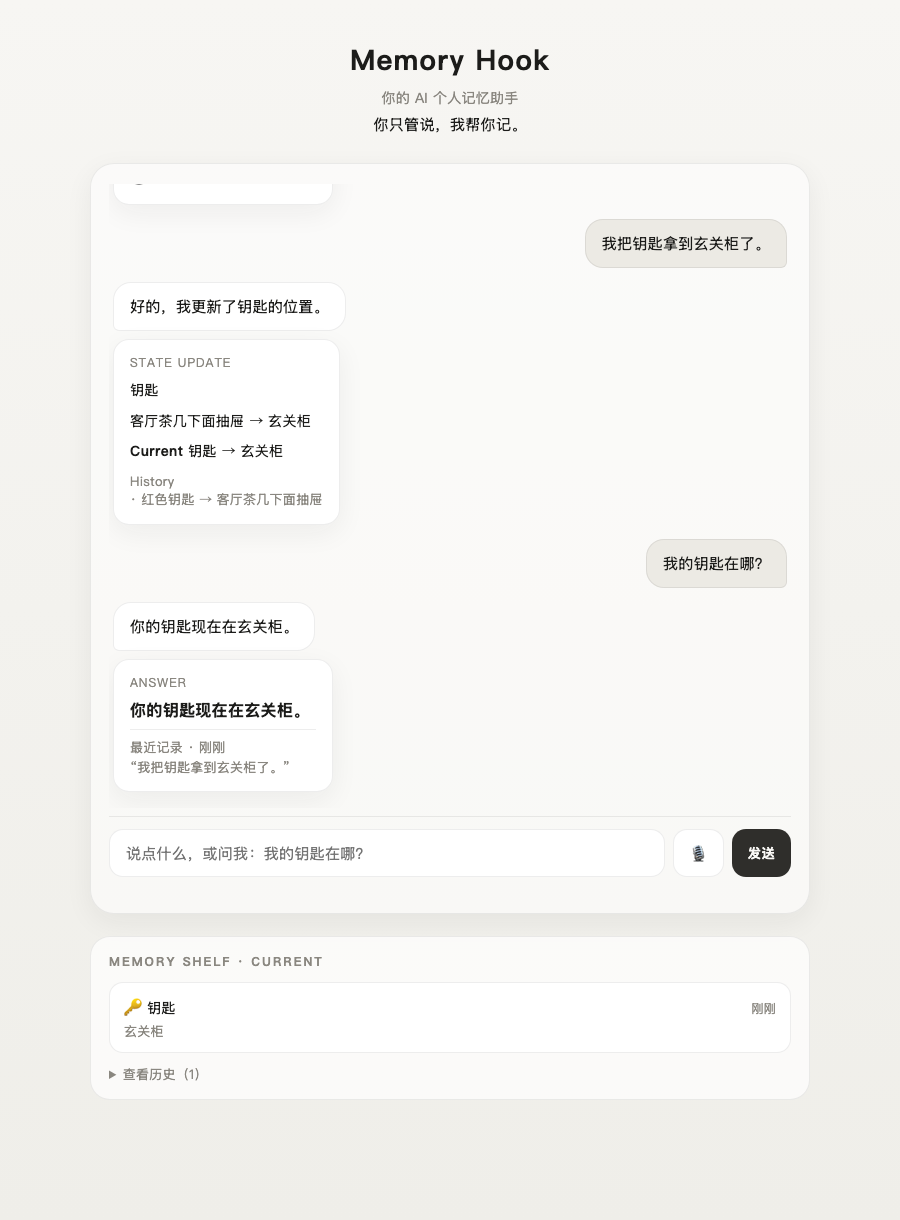
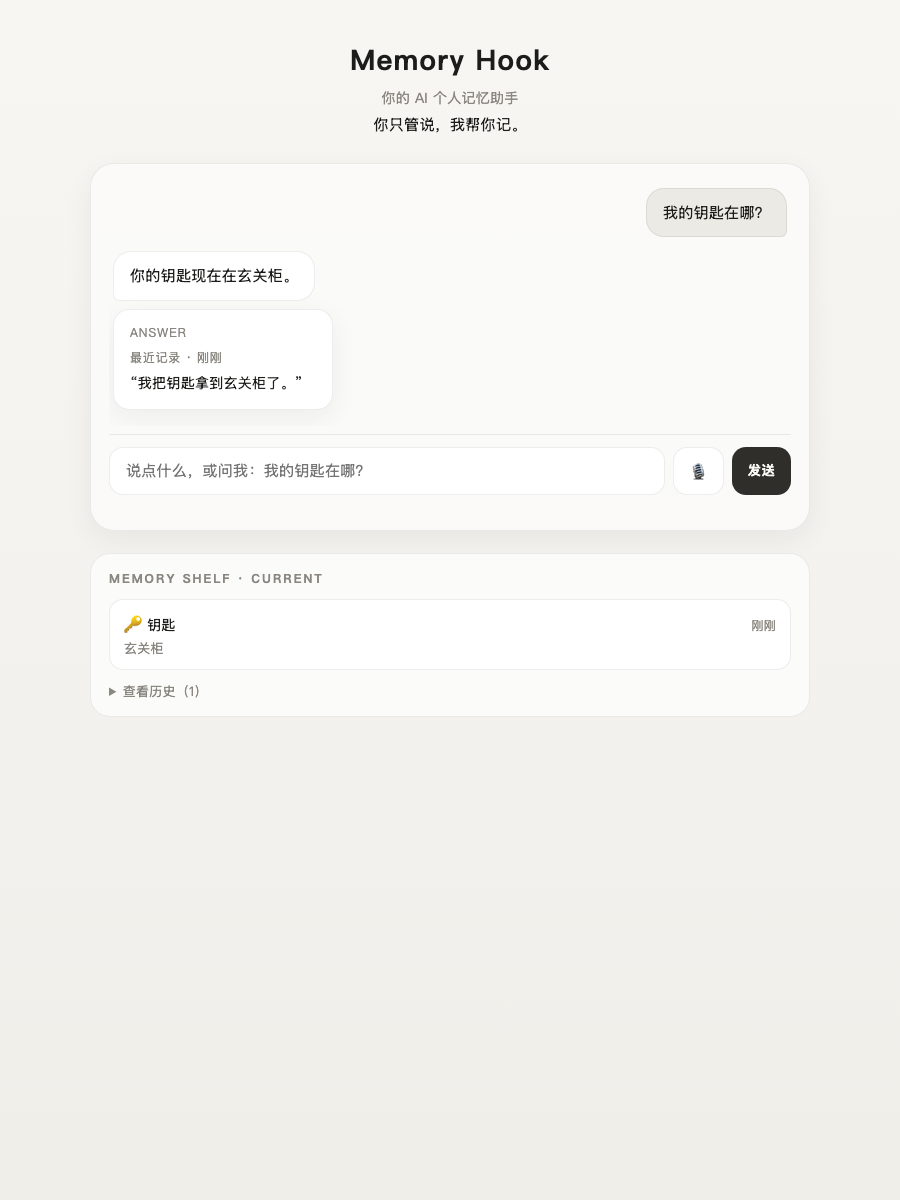
feat: polish showcase UI query card and home chips

diff --git a/memory-plugin-demo.html b/memory-plugin-demo.html
@@ -80,6 +80,46 @@
       line-height: 1.7;
       padding: 40px 12px;
     }
+    .empty-hint .try-label {
+      margin: 0 0 12px;
+      font-size: 13px;
+      color: var(--muted);
+    }
+    .chips {
+      display: flex;
+      flex-wrap: wrap;
+      gap: 8px;
+      justify-content: center;
+      margin-top: 4px;
+    }
+    .chip {
+      border: 1px solid var(--line);
+      background: #fff;
+      color: var(--text);
+      border-radius: 999px;
+      padding: 8px 14px;
+      font-size: 13px;
+      cursor: pointer;
+      transition: background 0.15s ease, border-color 0.15s ease;
+    }
+    .chip:hover {
+      background: var(--accent-soft);
+      border-color: #d5d1c8;
+    }
+    .answer-card .evidence {
+      margin-top: 0;
+      padding-top: 0;
+      border-top: 0;
+      color: var(--text);
+      font-size: 14px;
+      line-height: 1.55;
+    }
+    .answer-card .evidence .meta {
+      color: var(--muted);
+      font-size: 12px;
+      letter-spacing: 0.04em;
+      margin-bottom: 6px;
+    }
     .msg {
       display: flex;
       flex-direction: column;
@@ -131,11 +171,6 @@
     .clarify-card {
       border-color: rgba(154, 91, 26, 0.25);
       background: #fffaf4;
-    }
-    .answer-card strong {
-      display: block;
-      font-size: 16px;
-      margin-bottom: 8px;
     }
     .evidence {
       margin-top: 8px;
@@ -283,8 +318,12 @@
     <section class="stage">
       <div class="thread" id="thread">
         <div class="empty-hint" id="emptyHint">
-          说一句要记住的事，或直接问我。<br />
-          例如：我把红色钥匙放到客厅茶几下面抽屉里了。
+          <p class="try-label">试试：</p>
+          <div class="chips" id="exampleChips">
+            <button type="button" class="chip" data-text="我把红色钥匙放到客厅茶几下面抽屉里了。">记住我的钥匙</button>
+            <button type="button" class="chip" data-text="我把钥匙拿到玄关柜了。">更新物品位置</button>
+            <button type="button" class="chip" data-text="我的钥匙在哪？">我的钥匙在哪？</button>
+          </div>
         </div>
       </div>
 
@@ -1069,16 +1108,17 @@
     }
 
     function answerBlockHtml(answer, evidenceMem) {
-      let evidence = "";
+      let card = "";
       if (evidenceMem) {
-        evidence = `<div class="evidence">最近记录 · ${escapeHtml(relativeTime(evidenceMem.timestamp))}<br/>“${escapeHtml(evidenceMem.originalText)}”</div>`;
-      }
-      return `<div class="bubble">${escapeHtml(answer)}</div>
-        <div class="answer-card">
+        card = `<div class="answer-card">
           <div class="title">ANSWER</div>
-          <strong>${escapeHtml(answer)}</strong>
-          ${evidence}
+          <div class="evidence">
+            <div class="meta">最近记录 · ${escapeHtml(relativeTime(evidenceMem.timestamp))}</div>
+            “${escapeHtml(evidenceMem.originalText)}”
+          </div>
         </div>`;
+      }
+      return `<div class="bubble">${escapeHtml(answer)}</div>${card}`;
     }
 
     function findPrevStateSnapshot(object, snapshot) {
@@ -1203,6 +1243,15 @@
         appendAi(`<div class="bubble">好的，我记住了。</div>${cards}`);
       }
       render();
+    });
+
+    document.getElementById("exampleChips")?.addEventListener("click", (e) => {
+      const chip = e.target.closest(".chip");
+      if (!chip) return;
+      const text = chip.getAttribute("data-text") || "";
+      if (!text) return;
+      input.value = text;
+      form.requestSubmit();
     });
 
     render();
